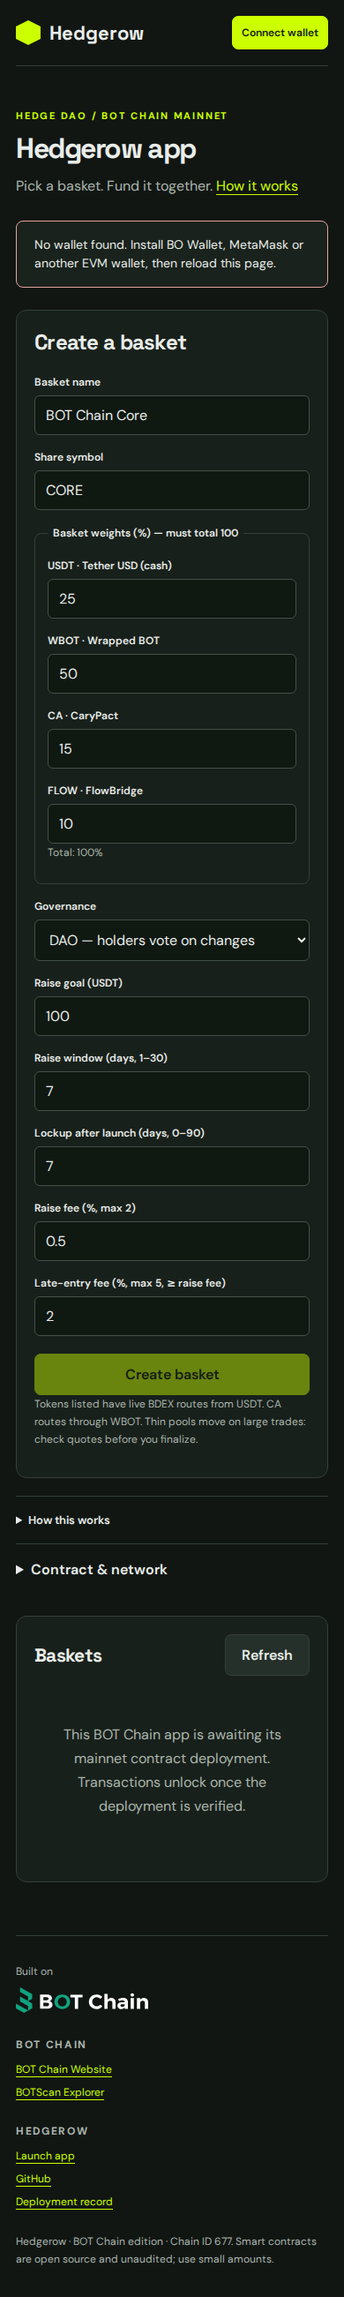
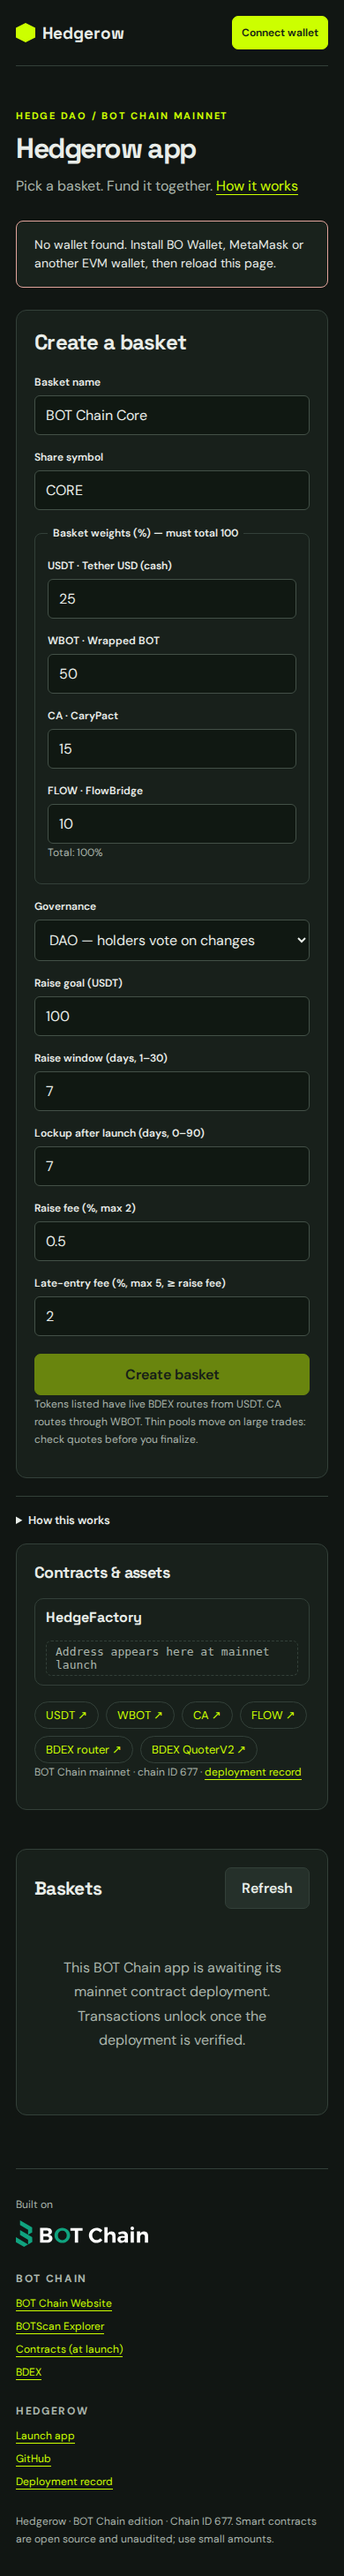
Move sites to Vercel; BOT Chain branding and linked contracts

diff --git a/web/landing.html b/web/landing.html
@@ -1,1 +1,1 @@
-<!doctype html><html lang="en"><head><meta charset="UTF-8"><meta name="viewport" content="width=device-width,initial-scale=1"><meta name="theme-color" content="#111613"><title>__NAME__ · BOT Chain</title><meta name="description" content="__DESCRIPTION__"><meta property="og:title" content="__NAME__ · BOT Chain"><meta property="og:description" content="__DESCRIPTION__"><meta property="og:type" content="website"><meta name="twitter:card" content="summary"><link rel="icon" href="/icon.svg" type="image/svg+xml"><link rel="stylesheet" href="/style.css"></head><body><a class="skip" href="#main">Skip to content</a><div class="shell"><header><a class="brand" href="/"><span class="mark" aria-hidden="true"></span>__NAME__</a><nav class="site-nav" aria-label="Page"><a href="#how">How it works</a><a href="#features">Features</a><a href="#faq">FAQ</a><a href="__REPO_URL__" target="_blank" rel="noopener noreferrer">GitHub</a></nav><div class="header-actions"><a class="button primary" href="/app/">Launch app</a></div></header><main id="main"><section class="hero"><div><span class="eyebrow">__EYEBROW__ / BOT CHAIN</span><h1>__LINE__</h1><p>__DESCRIPTION__</p><div class="cta-row"><a class="button primary" href="/app/">Launch app</a><a class="button" href="__REPO_URL__" target="_blank" rel="noopener noreferrer">View source</a></div></div><div class="hero-art" aria-hidden="true"><div class="art-grid"><span>01</span><span>02</span><span>03</span><span>04</span><span>__SYMBOL__</span><span>06</span><span>07</span><span>08</span><span>09</span></div></div></section>__LAUNCH__<section id="how" class="band"><span class="eyebrow">How it works</span><h2>Three steps, all onchain</h2><ol class="steps">__STEPS__</ol></section><section id="features" class="band"><span class="eyebrow">Features</span><h2>Why __NAME__</h2><div class="features">__FEATURES__</div></section><section id="onchain" class="band"><span class="eyebrow">Onchain</span><h2>Verify everything</h2><dl class="facts">__FACTS__</dl></section><section id="faq" class="band"><span class="eyebrow">FAQ</span><h2>Questions</h2><div class="faq">__FAQ__</div></section><section class="cta-band"><h2>__LINE__</h2><p>Connect BO Wallet, MetaMask or any EVM wallet on BOT Chain mainnet.</p><a class="button primary" href="/app/">Launch __NAME__</a></section></main>__FOOTER__</div></body></html>
+<!doctype html><html lang="en"><head><meta charset="UTF-8"><meta name="viewport" content="width=device-width,initial-scale=1"><meta name="theme-color" content="#111613"><title>__NAME__ · BOT Chain</title><meta name="description" content="__DESCRIPTION__"><meta property="og:title" content="__NAME__ · BOT Chain"><meta property="og:description" content="__DESCRIPTION__"><meta property="og:type" content="website"><meta name="twitter:card" content="summary"><link rel="icon" href="/icon.svg" type="image/svg+xml"><link rel="stylesheet" href="/style.css"></head><body><a class="skip" href="#main">Skip to content</a><div class="shell"><header><a class="brand" href="/"><span class="mark" aria-hidden="true"></span>__NAME__</a><nav class="site-nav" aria-label="Page"><a href="#how">How it works</a><a href="#features">Features</a><a href="#contracts">Contracts</a><a href="#faq">FAQ</a><a href="__REPO_URL__" target="_blank" rel="noopener noreferrer">GitHub</a></nav><div class="header-actions"><a class="chain-badge" href="https://www.botchain.ai/" target="_blank" rel="noopener noreferrer" aria-label="Built on BOT Chain"><span>Built on</span><img src="/botchain.svg" alt="BOT Chain" width="96" height="19"></a><a class="button primary" href="/app/">Launch app</a></div></header><main id="main"><section class="hero"><div><span class="eyebrow">__EYEBROW__ / BOT CHAIN</span><h1>__LINE__</h1><p>__DESCRIPTION__</p><div class="cta-row"><a class="button primary" href="/app/">Launch app</a><a class="button" href="__REPO_URL__" target="_blank" rel="noopener noreferrer">View source</a></div></div><div class="hero-art" aria-hidden="true"><div class="art-grid"><span>01</span><span>02</span><span>03</span><span>04</span><span>__SYMBOL__</span><span>06</span><span>07</span><span>08</span><span>09</span></div></div></section>__LAUNCH__<section id="how" class="band"><span class="eyebrow">How it works</span><h2>Three steps, all onchain</h2><ol class="steps">__STEPS__</ol></section><section id="features" class="band"><span class="eyebrow">Features</span><h2>Why __NAME__</h2><div class="features">__FEATURES__</div></section><section id="onchain" class="band"><span class="eyebrow">Onchain</span><h2>Verify everything</h2><dl class="facts">__FACTS__</dl></section><section id="contracts" class="band"><span class="eyebrow">Contracts &amp; BOT Chain assets</span><h2>Every address, on BOTScan</h2><p>Each link opens the contract or token on BOTScan, the BOT Chain explorer.</p><div class="contracts">__CONTRACTS__</div><h3 class="assets-title">BOT Chain assets used</h3><ul class="assets">__ASSETS__</ul></section><section id="faq" class="band"><span class="eyebrow">FAQ</span><h2>Questions</h2><div class="faq">__FAQ__</div></section><section class="cta-band"><h2>__LINE__</h2><p>Connect BO Wallet, MetaMask or any EVM wallet on BOT Chain mainnet.</p><a class="button primary" href="/app/">Launch __NAME__</a></section></main>__FOOTER__</div></body></html>

diff --git a/web/products/hedgerow.js b/web/products/hedgerow.js
@@ -1,5 +1,5 @@
 import {parseAbi,encodePacked} from 'viem';
-import {$,config,state,client,esc,fmt,link,short,button,field,form,details,amount,read,tx,approve,mine,wallet,start} from '../core.js';
+import {$,config,state,client,esc,fmt,link,short,button,field,form,details,amount,read,tx,approve,mine,wallet,asset,start} from '../core.js';
 const ZERO='0x0000000000000000000000000000000000000000',USDT=config.infrastructure.USDT;
 const quoterAbi=parseAbi(['function quoteExactInput(bytes path,uint256 amountIn) returns(uint256 amountOut,uint160[],uint32[],uint256)']);
 const symAbi=parseAbi(['function symbol() view returns(string)','function decimals() view returns(uint8)']);
@@ -51,10 +51,10 @@ async function card(id){
  const metas=await Promise.all(comps.map(c=>tokenMeta(c.token)));const own=mine(creator),now=chainNow,f=`v${id}`;
  const shownPhase=refundable?2:phase;
  let html=`<article class="item"><div class="section-head"><h3>${esc(name)} <span class="tiny">${esc(symbol)}</span></h3><span class="badge">${PHASES[shownPhase]} · ${MODES[mode]}</span></div>`;
- html+=`<div class="basket">${comps.map((c,n)=>`<span style="flex:${c.weightBps}">${esc(metas[n].symbol)} ${pct(c.weightBps)}</span>`).join('')}</div>`;
- html+=phase===0?`<div class="amount">${trim(fmt(raised,6))} / ${trim(fmt(goal,6))} USDT</div><p class="tiny">Raise ends ${new Date(Number(raiseEnd)*1000).toLocaleString()} · raise fee ${pct(raiseFee)} · late fee ${pct(lateFee)} · by ${link(creator)} · ${link(addr,'vault')}</p>`
+ html+=`<div class="basket">${comps.map((c,n)=>`<span style="flex:${c.weightBps}">${asset(metas[n].symbol,c.token)} ${pct(c.weightBps)}</span>`).join('')}</div>`;
+ html+=phase===0?`<div class="amount">${trim(fmt(raised,6))} / ${trim(fmt(goal,6))} ${asset('USDT')}</div><p class="tiny">Raise ends ${new Date(Number(raiseEnd)*1000).toLocaleString()} · raise fee ${pct(raiseFee)} · late fee ${pct(lateFee)} · by ${link(creator)} · ${link(addr,'vault')}</p>`
   :`<p class="tiny">${trim(fmt(supply,6))} shares · late-entry fee ${pct(lateFee)} · ${Number(lockupEnd)>now?`lockup until ${new Date(Number(lockupEnd)*1000).toLocaleString()}`:'redeemable'} · by ${link(creator)} · ${link(addr,'vault')}</p>`;
- if(phase===1){const hm=await Promise.all(holdings[0].map(tokenMeta));html+='<div class="holdings">'+holdings[0].map((t,n)=>`<div class="row"><span>${esc(hm[n].symbol)}</span><strong>${trim(fmt(holdings[1][n],hm[n].decimals))}</strong></div>`).join('')+'</div>';}
+ if(phase===1){const hm=await Promise.all(holdings[0].map(tokenMeta));html+='<div class="holdings">'+holdings[0].map((t,n)=>`<div class="row"><span>${asset(hm[n].symbol,t)}</span><strong>${trim(fmt(holdings[1][n],hm[n].decimals))}</strong></div>`).join('')+'</div>';}
  const slipField=k=>field(`${f}-${k}-slip`,'Max slippage (%)','2','text','inputmode="decimal"');
  if(state.account){
   const [dep,claim,shares,votes]=await Promise.all([vread(addr,'deposits',[state.account]),vread(addr,'claimable',[state.account]),vread(addr,'balanceOf',[state.account]),vread(addr,'getVotes',[state.account])]);
@@ -77,7 +77,7 @@ async function card(id){
  if(count>0n){html+='<h3>Proposals</h3>';
   for(let p=Number(count)-1;p>=Math.max(0,Number(count)-5);p--){const [[pr,next],ok,voted]=await Promise.all([vread(addr,'proposal',[BigInt(p)]),vread(addr,'passed',[BigInt(p)]),state.account?vread(addr,'hasVoted',[BigInt(p),state.account]):false]);
    const nm=await Promise.all(next.map(c=>tokenMeta(c.token))),open=now<Number(pr.end);
-   html+=`<div class="item"><div class="row"><span>#${p} · ${next.map((c,n)=>`${esc(nm[n].symbol)} ${pct(c.weightBps)}`).join(' · ')}</span><strong>${pr.executed?'Executed':open?(mode===2?'Voting':'Timelocked'):ok?'Ready':'Closed'}</strong></div>`;
+   html+=`<div class="item"><div class="row"><span>#${p} · ${next.map((c,n)=>`${asset(nm[n].symbol,c.token)} ${pct(c.weightBps)}`).join(' · ')}</span><strong>${pr.executed?'Executed':open?(mode===2?'Voting':'Timelocked'):ok?'Ready':'Closed'}</strong></div>`;
    if(mode===2)html+=`<p class="tiny">For ${trim(fmt(pr.forVotes,6))} · Against ${trim(fmt(pr.againstVotes,6))} · Quorum ${trim(fmt(pr.quorumBase*2000n/10000n,6))} · ${open?`ends ${new Date(Number(pr.end)*1000).toLocaleString()}`:'ended'}</p>`;
    const pa=[];if(mode===2&&open&&state.account&&!voted)pa.push(button('Vote for',()=>vaultTx(addr,'vote',[BigInt(p),true]),true),button('Vote against',()=>vaultTx(addr,'vote',[BigInt(p),false])));
    if(ok&&own)html+=details('Execute this change',form(`${f}-ex${p}`,slipField(`ex${p}`),'Rebalance now',async x=>{const slip=slippage(x[`${f}-ex${p}-slip`]);let cash=holdings[0].length>comps.length?holdings[1][comps.length]:0n;

diff --git a/web/app.html b/web/app.html
@@ -1,1 +1,1 @@
-<!doctype html><html lang="en"><head><meta charset="UTF-8"><meta name="viewport" content="width=device-width,initial-scale=1"><meta name="theme-color" content="#111613"><title>__NAME__ App · BOT Chain</title><meta name="description" content="__DESCRIPTION__"><link rel="icon" href="/icon.svg" type="image/svg+xml"><link rel="stylesheet" href="/style.css"></head><body><a class="skip" href="#main">Skip to app</a><div class="shell"><header><a class="brand" href="/"><span class="mark" aria-hidden="true"></span>__NAME__</a><div class="header-actions"><span class="network">BOT Chain · 677</span><button id="add-chain" type="button">Add BOT Chain</button><button id="connect" type="button" class="primary">Connect wallet</button></div></header><main id="main"><section class="app-intro"><span class="eyebrow">__EYEBROW__ / BOT CHAIN MAINNET</span><h1>__NAME__ app</h1><p>__LINE__ <a href="/">How it works</a></p></section><div id="status" class="status" role="status" aria-live="polite">Checking deployment…</div><div id="workspace" class="layout"><aside><div id="controls" class="panel"></div><details class="rules"><summary>How this works</summary><div id="rules"></div></details><details><summary>Contract &amp; network</summary><div id="contract" class="record"></div></details></aside><section class="panel"><div class="section-head"><h2 id="list-title">Activity</h2><button id="refresh" type="button">Refresh</button></div><div id="records" aria-live="polite"><p class="empty">Loading onchain data…</p></div></section></div></main>__FOOTER__</div><dialog id="wallets" aria-labelledby="wallets-title"><form method="dialog"><h2 id="wallets-title">Choose a wallet</h2><p class="tiny">Any EVM wallet works on BOT Chain, including BO Wallet and MetaMask.</p><div id="wallet-list" class="wallet-list"></div><button value="cancel">Cancel</button></form></dialog><script type="module" src="/app.js"></script></body></html>
+<!doctype html><html lang="en"><head><meta charset="UTF-8"><meta name="viewport" content="width=device-width,initial-scale=1"><meta name="theme-color" content="#111613"><title>__NAME__ App · BOT Chain</title><meta name="description" content="__DESCRIPTION__"><link rel="icon" href="/icon.svg" type="image/svg+xml"><link rel="stylesheet" href="/style.css"></head><body><a class="skip" href="#main">Skip to app</a><div class="shell"><header><a class="brand" href="/"><span class="mark" aria-hidden="true"></span>__NAME__</a><div class="header-actions"><a class="chain-badge compact" href="https://www.botchain.ai/" target="_blank" rel="noopener noreferrer" aria-label="Built on BOT Chain"><span>Built on</span><img src="/botchain.svg" alt="BOT Chain" width="96" height="19"></a><button id="add-chain" type="button">Add BOT Chain</button><button id="connect" type="button" class="primary">Connect wallet</button></div></header><main id="main"><section class="app-intro"><span class="eyebrow">__EYEBROW__ / BOT CHAIN MAINNET</span><h1>__NAME__ app</h1><p>__LINE__ <a href="/">How it works</a></p></section><div id="status" class="status" role="status" aria-live="polite">Checking deployment…</div><div id="workspace" class="layout"><aside><div id="controls" class="panel"></div><details class="rules"><summary>How this works</summary><div id="rules"></div></details><div class="panel contracts-panel"><h2>Contracts &amp; assets</h2><div class="contracts">__CONTRACTS__</div><ul class="assets">__ASSETS__</ul><p class="tiny">BOT Chain mainnet · chain ID 677 · <a href="/deployment.json">deployment record</a></p></div></aside><section class="panel"><div class="section-head"><h2 id="list-title">Activity</h2><button id="refresh" type="button">Refresh</button></div><div id="records" aria-live="polite"><p class="empty">Loading onchain data…</p></div></section></div></main>__FOOTER__</div><dialog id="wallets" aria-labelledby="wallets-title"><form method="dialog"><h2 id="wallets-title">Choose a wallet</h2><p class="tiny">Any EVM wallet works on BOT Chain, including BO Wallet and MetaMask.</p><div id="wallet-list" class="wallet-list"></div><button value="cancel">Cancel</button></form></dialog><script type="module" src="/app.js"></script></body></html>

diff --git a/web/core.js b/web/core.js
@@ -72,6 +72,8 @@ export const tx=(name,fn,args=[],value=0n,addr=config.contracts[name])=>transact
 export async function approve(token,spender,n){await wallet();const allowed=await client.readContract({address:token,abi:tokenAbi,functionName:'allowance',args:[state.account,spender]});if(allowed<n){if(allowed>0n)await transact(tokenAbi,token,'approve',[spender,0n]);await transact(tokenAbi,token,'approve',[spender,n]);}}
 export async function approveNFT(token,id,spender){await wallet();if((await client.readContract({address:token,abi:tokenAbi,functionName:'getApproved',args:[id]})).toLowerCase()!==spender.toLowerCase())await transact(nftAbi,token,'approve',[spender,id]);}
 export const wrapForms=()=>details('Wrap or unwrap BOT',form('wrap',field('wrap-amount','BOT to wrap','0.01','text','inputmode="decimal"'),'Wrap BOT',async f=>transact(tokenAbi,config.infrastructure.WBOT,'deposit',[],amount(f['wrap-amount'])))+form('unwrap',field('unwrap-amount','WBOT to unwrap','0.01','text','inputmode="decimal"'),'Unwrap WBOT',async f=>transact(tokenAbi,config.infrastructure.WBOT,'withdraw',[amount(f['unwrap-amount'])])));
+/** A BOT Chain asset symbol, linked to its BOTScan token page (BOT links to BOT Chain). Unknown symbols stay plain text. */
+export const asset=(symbol,address)=>{const k=String(symbol).toUpperCase(),a=config.assetLinks?.[k];const href=a?.href||(address?`https://scan.botchain.ai/token/${address}`:null);return href?`<a class="asset" href="${esc(href)}" target="_blank" rel="noopener noreferrer" title="${esc(a?.name||symbol)} on BOT Chain">${esc(symbol)}</a>`:esc(symbol);};
 export const mine=a=>!!state.account&&a?.toLowerCase()===state.account.toLowerCase();
 
 let product;
@@ -95,6 +97,5 @@ export function start(p){
  document.addEventListener('submit',e=>{if(!e.target.dataset.form)return;e.preventDefault();const f=e.target;run(()=>actions.get(f.dataset.form)(Object.fromEntries(new FormData(f))));});
  $('connect').onclick=()=>run(connect);$('add-chain').onclick=()=>run(addChain);$('refresh').onclick=()=>run(state.verified?refresh:boot);
  product.controls();
- $('contract').innerHTML=`<p>BOT Chain mainnet · Chain ID 677</p><p>${config.contracts[config.contract]?link(config.contracts[config.contract],'View app contract on BOTScan'):'Contract deployment pending'}</p><p><a href="/deployment.json">Public deployment record</a></p>`;
  boot();
 }

diff --git a/web/style.css b/web/style.css
@@ -50,3 +50,21 @@ dialog form>button{width:100%}
 .weights legend{font-size:12px;font-weight:600;padding:0 6px}
 .tiny.error{color:#e2a49c}
 .holdings{margin:6px 0 10px}
+
+.chain-badge{display:inline-flex;align-items:center;gap:8px;text-decoration:none;color:var(--muted);font-size:12px;border:1px solid var(--line);border-radius:999px;padding:7px 12px;background:#18201b}
+.chain-badge:hover{border-color:#10A37F}
+.chain-badge img{height:15px;width:auto}
+.contracts{display:grid;gap:10px;margin:18px 0}
+.contract{display:flex;justify-content:space-between;align-items:center;gap:16px;flex-wrap:wrap;border:1px solid var(--line);border-radius:10px;padding:14px 18px;background:#18201b}
+.contract strong{font-family:'Space Grotesk',sans-serif}
+.contract a,.contract .pending{font-family:ui-monospace,SFMono-Regular,Menlo,monospace;font-size:13px;overflow-wrap:anywhere}
+.contract .pending{color:var(--muted);border:1px dashed var(--line);border-radius:6px;padding:4px 10px}
+.assets-title{margin-top:26px}
+.assets{list-style:none;padding:0;margin:10px 0 0;display:flex;flex-wrap:wrap;gap:8px}
+.assets a{display:inline-flex;gap:6px;align-items:center;border:1px solid var(--line);border-radius:999px;padding:6px 12px;font-size:13px;text-decoration:none}
+.assets a:hover{border-color:var(--accent)}
+.contracts-panel h2{font-size:18px;margin-bottom:6px}
+.contracts-panel .contract{padding:10px 12px}
+a.asset{text-decoration-thickness:1px}
+@media(max-width:760px){.chain-badge span{display:none}.chain-badge.compact{display:none}}
+@media(max-width:480px){header{gap:10px}.header-actions{gap:6px}.chain-badge{padding:6px 8px}.chain-badge img{height:12px}.header-actions a.button{padding:9px 11px;font-size:13px}.brand{font-size:19px;gap:8px}.mark{width:22px;height:22px}}

diff --git a/README.md b/README.md
@@ -4,7 +4,7 @@
 
 **Status:** contracts are tested on a BOT Chain mainnet fork; the mainnet deployment is pending.
 
-- Website and app: https://hedgerow-botchain.davidopuene8.workers.dev (app at [`/app/`](https://hedgerow-botchain.davidopuene8.workers.dev/app/))
+- Website and app: https://hedgerowbot.vercel.app (app at [`/app/`](https://hedgerowbot.vercel.app/app/))
 - Network: BOT Chain mainnet, chain ID 677 · [BOT Chain](https://www.botchain.ai/) · [BOTScan](https://scan.botchain.ai/)
 
 ![Hedgerow landing page](docs/hedgerow-landing-1280.png)
@@ -61,7 +61,7 @@ node scripts/deploy.mjs && node scripts/fork-check.mjs
 
 ### Deploy
 
-`scripts/deploy.mjs` reads the deployer key from `BOT_SIGNER_FILE` (default `~/.config/botchain-wave1/deployer.env`, never committed), refuses to broadcast on mainnet without `BOT_MAX_GAS_BOT`, and journals every transaction to `deployments/mainnet.json` so it can resume. `python3 scripts/publish.py` publishes the site with a one-hour, Workers-only Cloudflare token and revokes it afterwards.
+`scripts/deploy.mjs` reads the deployer key from `BOT_SIGNER_FILE` (default `~/.config/botchain-wave1/deployer.env`, never committed), refuses to broadcast on mainnet without `BOT_MAX_GAS_BOT`, and journals every transaction to `deployments/mainnet.json` so it can resume. `npm run publish` deploys the built site to Vercel as a static production deployment.
 
 ## License
 
